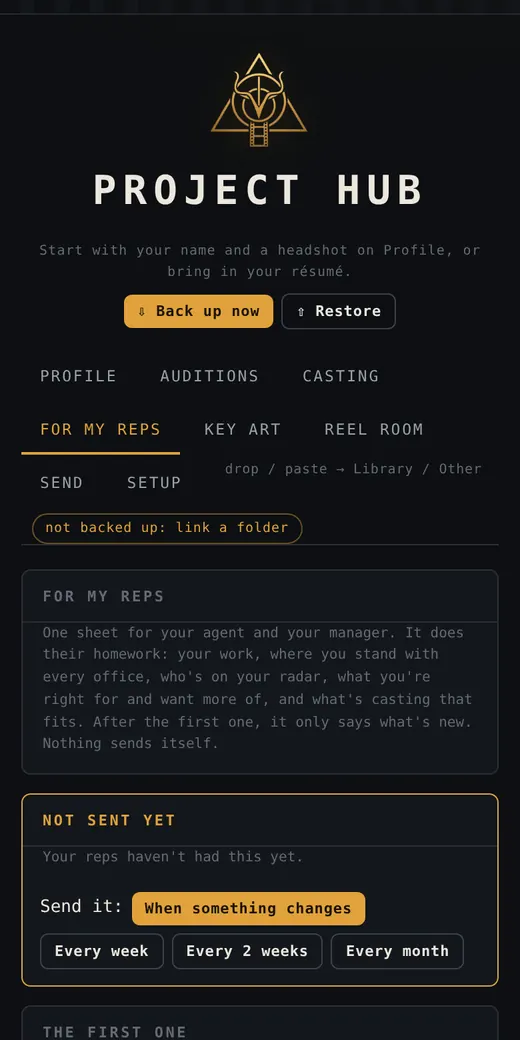
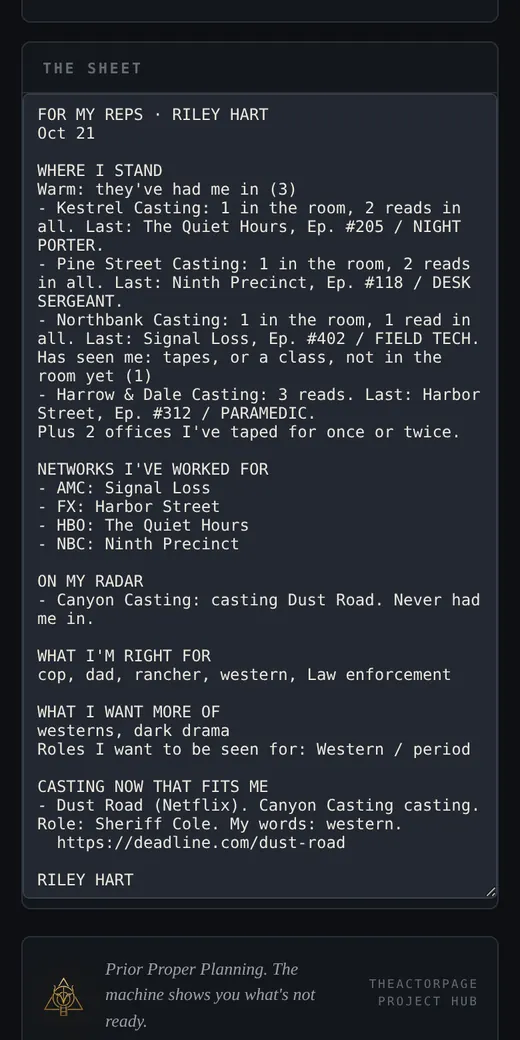
Home: the six steps say more, and FOR YOUR REPS gets its own section
GET IT: you got an audition, time to go to work. LEARN IT and RUN IT: your way, with the
tools to try. TAPE IT: one studio, every step. SEND IT: every step it handles (name,
compression, size limit, trim, one file or several, where it goes, on the record).
RADAR points to a new FOR YOUR REPS section: what's on the sheet, the rules, one button.
Fresh screens for TAPE, SEND and the reps sheet (made-up data only).

Claude-Session: https://claude.ai/code/session_019GNcFunTftEHwwSZoCErGV

diff --git a/index.html b/index.html
@@ -505,6 +505,23 @@ body.stopen{overflow:hidden}
 .cost th{text-align:left;padding:12px 18px;font-weight:500;color:#9aa1ab;border-bottom:1px solid var(--rule)}.cost th:last-child{color:var(--tungsten)}
 .cost td{padding:12px 18px;border-bottom:1px solid #1f2328}.cost tr:last-child td{border-bottom:0}.cost td:nth-child(2){color:#c3c8d0}
 .trysec{text-align:center}.trysec p{color:#c3c8d0;max-width:30em;margin:0 auto 22px;font-size:1.06rem}
+
+.sec-lede{font-size:1.08rem;line-height:1.55;color:#c3c8d0;max-width:36em;margin:-12px 0 24px}
+.sp-tools{display:grid;gap:8px;margin:0 0 20px}
+.sp-tools a{display:grid;gap:2px;text-decoration:none;color:var(--ink);border:1px solid var(--rule);border-radius:10px;padding:12px 14px}
+.sp-tools a:hover,.sp-tools a:focus-visible{border-color:var(--tungsten)}
+.sp-tools b{font-weight:500}.sp-tools span{color:#c3c8d0;font-size:.95rem;line-height:1.45}
+.steppanel ul.sp-care{padding:0}.sp-care{list-style:none;padding:0;margin:0 0 20px;display:grid;grid-template-columns:repeat(auto-fit,minmax(200px,1fr));gap:8px}
+.sp-care li{border:1px solid var(--rule);border-radius:10px;padding:11px 13px;display:grid;gap:2px}
+.sp-care b{font-weight:500}.sp-care b:before{content:'\2713  ';color:var(--tungsten)}.sp-care span{color:#c3c8d0;font-size:.93rem;line-height:1.4}
+.band.reps{background:#111317}
+.repswrap{display:flex;flex-wrap:wrap;gap:40px;align-items:flex-start}
+.reps-text{flex:1 1 440px;min-width:0}
+.reps-list{list-style:none;padding:0;margin:0 0 20px;display:grid;grid-template-columns:repeat(auto-fit,minmax(230px,1fr));gap:10px}
+.reps-list li{border:1px solid var(--rule);border-radius:12px;padding:14px 16px;display:grid;gap:3px;background:var(--stock)}
+.reps-list b{font:700 .74rem var(--script);letter-spacing:.18em;color:var(--tungsten)}.reps-list span{color:#c3c8d0;line-height:1.45}
+.reps-rules{color:#9aa1ab;font-size:.95rem;line-height:1.55;max-width:38em;margin:0 0 22px}
+.reps-go{justify-content:flex-start}
 footer .viewrow{margin:18px 0 4px;padding:0}
 </style>
 </head>
@@ -536,14 +553,15 @@ footer .viewrow{margin:18px 0 4px;padding:0}
 <section class="band how" id="how">
   <div class="wrap">
     <p class="kick">HOW AN AUDITION GOES HERE</p>
-    <h2 class="sec-h">Six steps. One place. Tap a step.</h2>
+    <h2 class="sec-h">You got the audition. Here’s every step after that.</h2>
+    <p class="sec-lede">Six steps, one place. Tap a step to see how it goes.</p>
     <div class="steptabs" role="tablist" aria-label="Audition steps"><button type="button" role="tab" class="steptab" id="st-get" aria-controls="sp-get" aria-selected="true" data-step="get"><i>1</i>GET IT</button><button type="button" role="tab" class="steptab" id="st-learn" aria-controls="sp-learn" aria-selected="false" data-step="learn"><i>2</i>LEARN IT</button><button type="button" role="tab" class="steptab" id="st-run" aria-controls="sp-run" aria-selected="false" data-step="run"><i>3</i>RUN IT</button><button type="button" role="tab" class="steptab" id="st-tape" aria-controls="sp-tape" aria-selected="false" data-step="tape"><i>4</i>TAPE IT</button><button type="button" role="tab" class="steptab" id="st-send" aria-controls="sp-send" aria-selected="false" data-step="send"><i>5</i>SEND IT</button><button type="button" role="tab" class="steptab" id="st-radar" aria-controls="sp-radar" aria-selected="false" data-step="radar"><i>6</i>STAY ON THEIR RADAR</button></div>
     <div class="steppanel" role="tabpanel" id="sp-get" aria-labelledby="st-get">
       <div class="sp-text">
         <p class="sp-n">STEP 1 OF 6</p>
-        <h3>Put in the sides. It finds your part.</h3>
-        <p class="sp-body">Drop in the sides, the self-tape request or your rep’s email. It reads who’s in the scene, which part is yours, and when the tape is due.</p>
-        <ul><li>Your lines lit, and the cue before each one</li><li>The due date read from the request, in your time zone</li><li>Every tool opens on your part from then on</li></ul>
+        <h3>You got an audition. Time to go to work.</h3>
+        <p class="sp-body">The email lands with the sides. Put it in here: the sides, the self-tape request, or your rep’s email. It finds your part, reads who’s casting and when the tape is due, and every tool opens on your part from then on.</p>
+        <ul><li>Your lines lit, and the cue before each one</li><li>The due date in your time zone and theirs</li><li>Their directions turned into a checklist</li></ul>
         <div class="sp-tool"><span>THE TOOL</span><b>Add your material, on this page</b><a class="btn" href="#you">ADD YOUR MATERIAL</a></div>
       </div>
       <div class="sp-shot"><img src="img/steps/get.webp" alt="A script read in: the characters found, your part picked" width="260" height="520" loading="lazy"></div>
@@ -551,39 +569,39 @@ footer .viewrow{margin:18px 0 4px;padding:0}
     <div class="steppanel" role="tabpanel" id="sp-learn" aria-labelledby="st-learn" hidden>
       <div class="sp-text">
         <p class="sp-n">STEP 2 OF 6</p>
-        <h3>Get off book.</h3>
-        <p class="sp-body">Say your lines out loud. It listens, and the lines you drop come back first, so you aren’t drilling the ones you already know.</p>
-        <ul><li>Whole line, first words or first letters</li><li>Checks your words in the language you speak</li><li>Breakdown lays out the role scene by scene</li></ul>
-        <div class="sp-tool"><span>THE TOOL</span><b>Memorizer, and Breakdown</b><a class="btn" href="memorizer/">OPEN MEMORIZER</a></div>
+        <h3>Learn it your way.</h3>
+        <p class="sp-body">Everybody learns lines differently. Pick the way that works for you, or mix them.</p>
+        <div class="sp-tools"><a href="memorizer/"><b>Memorizer</b><span>Say it out loud. The lines you drop come back first.</span></a><a href="breakdown/"><b>Breakdown</b><span>The role scene by scene: what you say, to whom, every question put to you.</span></a><a href="actor-os/"><b>First-letter sheet</b><span>The first letter of every word, to print or keep on your phone.</span></a><a href="cps/"><b>Character Bank</b><span>Keep a character’s voice, so the callback three weeks later sounds like you did.</span></a></div>
+        <div class="sp-tool"><span>THE TOOL</span><b>Memorizer, Breakdown, Character Bank</b><a class="btn" href="memorizer/">OPEN MEMORIZER</a></div>
       </div>
       <div class="sp-shot"><img src="img/steps/learn.webp" alt="Memorizer: say your line, first letters shown as a hint" width="260" height="520" loading="lazy"></div>
     </div>
     <div class="steppanel" role="tabpanel" id="sp-run" aria-labelledby="st-run" hidden>
       <div class="sp-text">
         <p class="sp-n">STEP 3 OF 6</p>
-        <h3>A reader who waits for you.</h3>
-        <p class="sp-body">Read the other parts once yourself, or send a friend a link and they read in on their own time. It plays them back and waits for you to finish your line.</p>
-        <ul><li>Your voice or a friend’s, never a computer voice</li><li>Loop the scene with the screen locked, earbuds in</li><li>A silence for each of your lines, the length of the line</li></ul>
-        <div class="sp-tool"><span>THE TOOL</span><b>Reader booth and Pocket run, in the self-tape studio</b><a class="btn" href="actor-os/">OPEN THE SELF-TAPE STUDIO</a></div>
+        <h3>Run it your way: on your own, or with some help.</h3>
+        <p class="sp-body">Nobody to read with at nine at night? Read the other parts once yourself and it plays them back, waiting for you to finish your line. Or send a friend a link and they read in on their own time. No call, no set time.</p>
+        <div class="sp-tools"><a href="actor-os/"><b>On your own</b><span>Read the scene once. Your reader is ready.</span></a><a href="actor-os/"><b>With a friend</b><span>They record the other parts on their phone and send you one file back.</span></a><a href="actor-os/"><b>Pocket run</b><span>The scene on a loop with the screen locked, earbuds in. A silence for each of your lines.</span></a></div><ul><li>Always a real voice, yours or a friend’s. Never a computer.</li></ul>
+        <div class="sp-tool"><span>THE TOOL</span><b>Reader booth, in the self-tape studio</b><a class="btn" href="actor-os/">OPEN THE SELF-TAPE STUDIO</a></div>
       </div>
       <div class="sp-shot"><img src="img/steps/run.webp" alt="Pocket run: the scene on a loop, the line you are on" width="260" height="520" loading="lazy"></div>
     </div>
     <div class="steppanel" role="tabpanel" id="sp-tape" aria-labelledby="st-tape" hidden>
       <div class="sp-text">
         <p class="sp-n">STEP 4 OF 6</p>
-        <h3>Shoot on the phone you have.</h3>
-        <p class="sp-body">It asks before the camera turns on and always shows you when it’s on. After a take it tells you what it heard: a line you went quiet on, a spot where the sound clipped.</p>
-        <ul><li>Framing the office asked for</li><li>Your slate, made for you</li><li>Not a grade. Just what casting will hear</li></ul>
+        <h3>One studio, every step, every time.</h3>
+        <p class="sp-body">The self-tape studio is built in, so every tape comes out the same way: framed, slated and clean. No juggling four apps to get one tape.</p>
+        <ul><li>Framed the way the office asked: landscape or portrait, how close</li><li>Your slate, made for you, in the order they asked</li><li>Your reader plays by the lens, from the right line</li><li>After each take, what it heard: a line you went quiet on, a spot where the sound clipped. Not a grade</li><li>It asks before the camera turns on, and always shows you when it’s on</li></ul>
         <div class="sp-tool"><span>THE TOOL</span><b>Self-tape studio (Actor OS)</b><a class="btn" href="actor-os/">OPEN THE SELF-TAPE STUDIO</a></div>
       </div>
-      <div class="sp-shot"><img src="img/steps/tape.webp" alt="The self-tape studio, ready to turn on the camera" width="260" height="520" loading="lazy"></div>
+      <div class="sp-shot"><img src="img/steps/tape.webp" alt="The self-tape studio, ready to turn on the camera" width="260" height="473" loading="lazy"></div>
     </div>
     <div class="steppanel" role="tabpanel" id="sp-send" aria-labelledby="st-send" hidden>
       <div class="sp-text">
         <p class="sp-n">STEP 5 OF 6</p>
-        <h3>Sized, named and ready.</h3>
-        <p class="sp-body">Paste the office’s instructions. It trims the take, sizes it and names the file the way they asked. You send it.</p>
-        <ul><li>No editing app, no compression app</li><li>The file named the way casting expects</li><li>Kept takes go to your hub, ready for next time</li></ul>
+        <h3>Sized, named and ready to go.</h3>
+        <p class="sp-body">This is where good tapes get lost. Paste the office’s instructions and it handles every step they asked for:</p>
+        <ul class="sp-care"><li><b>File name</b><span>Named the way the office asked. NAME_Role_Tk1, or whatever they want.</span></li><li><b>Compression</b><span>Casting quality, small enough to upload. No compression app.</span></li><li><b>Size limit</b><span>Lands under the cap. Actors Access asks for under 500 MB.</span></li><li><b>Trim</b><span>The dead air off the top and the tail.</span></li><li><b>One file or several</b><span>Scenes together or apart, slate first, the way they asked.</span></li><li><b>Where it’s going</b><span>Actors Access, your agent or manager, or a link.</span></li><li><b>On the record</b><span>The tape is kept with that audition in your hub.</span></li></ul><ul><li>Nothing uploads by itself. You pick the file and send it.</li></ul>
         <div class="sp-tool"><span>THE TOOL</span><b>Self-tape studio (Actor OS)</b><a class="btn" href="actor-os/">OPEN THE SELF-TAPE STUDIO</a></div>
       </div>
       <div class="sp-shot"><img src="img/steps/send.webp" alt="Send: paste the office instructions and it sets the file up" width="260" height="520" loading="lazy"></div>
@@ -591,13 +609,36 @@ footer .viewrow{margin:18px 0 4px;padding:0}
     <div class="steppanel" role="tabpanel" id="sp-radar" aria-labelledby="st-radar" hidden>
       <div class="sp-text">
         <p class="sp-n">STEP 6 OF 6</p>
-        <h3>Keep the people who matter in the loop.</h3>
-        <p class="sp-body">Every audition and every casting office, and what they told you, in one place. One sheet for your agent and manager, and after the first one, only what’s new.</p>
-        <ul><li>Who has had you in, and when</li><li>Projects that fit you, from the trades</li><li>A sheet for your reps, in your words</li></ul>
-        <div class="sp-tool"><span>THE TOOL</span><b>Project Hub, and Spotted</b><a class="btn" href="hub/?tab=reps">OPEN FOR MY REPS</a></div>
+        <h3>Stay on casting’s radar.</h3>
+        <p class="sp-body">Booking is a long game. Every audition, every office, what they told you and when you were last in the room, all in one place, so nobody who liked you forgets you.</p>
+        <ul><li>Every office: who has had you in, how often, the last read</li><li>Projects casting now that fit you, from the trades</li><li>Notes from class and sessions, kept with the people in them</li><li>For your reps: one sheet that does their homework. More below</li></ul>
+        <div class="sp-tool"><span>THE TOOL</span><b>Project Hub, and Spotted</b><a class="btn" href="#reps">SEE FOR YOUR REPS</a></div>
       </div>
       <div class="sp-shot"><img src="img/steps/radar.webp" alt="For my reps: one sheet for your agent and manager" width="260" height="520" loading="lazy"></div>
     </div>
+  </div>
+</section>
+
+<hr class="hair">
+
+<section class="band reps" id="reps">
+  <div class="wrap repswrap">
+    <div class="reps-text">
+      <p class="kick">FOR YOUR REPS</p>
+      <h2 class="sec-h">Make it easy for your reps to pitch you.</h2>
+      <p class="sec-lede">Agents and managers juggle a lot of clients. Hand them one sheet with the homework already done: who you are, where you stand with every office, and what's casting right now that fits you.</p>
+      <ul class="reps-list">
+        <li><b>My work</b><span>Your page, your reel, your credits.</span></li>
+        <li><b>Where I stand</b><span>Every casting office, grouped by how well they know you, with the last read.</span></li>
+        <li><b>Who should know me</b><span>Offices casting now that have never had you in.</span></li>
+        <li><b>Right for</b><span>Your types, and what you want more of.</span></li>
+        <li><b>Casting that fits</b><span>Projects from the trades with your words in them, with links.</span></li>
+        <li><b>What's new</b><span>After the first sheet, only what changed.</span></li>
+      </ul>
+      <p class="reps-rules">In your words, with counts, never scores. Other people's numbers and emails never go on it, and offices you marked Do not contact never appear. You pick when it goes out: when something changes, or every week, two weeks or month. Nothing sends itself.</p>
+      <div class="hero-go reps-go"><a class="btn" href="hub/?tab=reps">Build your first sheet</a></div>
+    </div>
+    <div class="sp-shot"><img src="img/steps/radar.webp" alt="FOR MY REPS: one sheet for your agent and your manager" width="260" height="520" loading="lazy"></div>
   </div>
 </section>
 

diff --git a/tests/home_front_e2e.js b/tests/home_front_e2e.js
@@ -15,10 +15,26 @@ want('six steps, in order', tabs.join('|')==='GET IT|LEARN IT|RUN IT|TAPE IT|SEN
 want('one step shows at a time, with a real screen', (await p.$$eval('.steppanel',x=>x.filter(e=>!e.hidden).length))===1&&await p.$eval('#sp-get img',i=>i.complete&&i.naturalWidth>100));
 await p.click('#st-run'); await p.waitForTimeout(200);
 const run=await p.innerText('#sp-run');
-want('tap RUN IT: the reader, never a computer voice, and the tool by what it does', /A reader who waits for you/.test(run)&&/never a computer voice/.test(run)&&/Reader booth and Pocket run/.test(run)&&!(await p.isVisible('#sp-get')));
+want('tap RUN IT: a real voice, never a computer, and the tool by what it does', /Never a computer/.test(run)&&/Reader booth/.test(run)&&!(await p.isVisible('#sp-get')));
 await p.focus('#st-run'); await p.keyboard.press('ArrowRight'); await p.waitForTimeout(150);
 want('arrow keys move between steps', await p.$eval('#st-tape',t=>t.getAttribute('aria-selected')==='true'&&document.activeElement===t));
 const imgs=await p.$$eval('.steppanel img',x=>x.map(i=>i.getAttribute('src')));
+await p.click('#st-get'); await p.waitForTimeout(150);
+want('GET IT: you got an audition, time to go to work', /You got an audition\. Time to go to work\./.test(await p.innerText('#sp-get')));
+await p.click('#st-learn'); await p.waitForTimeout(150);
+want('LEARN IT: your way, with the tools to try, each a link', /Learn it your way/.test(await p.innerText('#sp-learn'))&&(await p.$$('#sp-learn .sp-tools a')).length===4);
+await p.click('#st-run'); await p.waitForTimeout(150);
+want('RUN IT: on your own, or with some help', /on your own, or with some help/.test(await p.innerText('#sp-run'))&&/With a friend/.test(await p.innerText('#sp-run')));
+await p.click('#st-tape'); await p.waitForTimeout(150);
+want('TAPE IT: one studio, every step, every time', /One studio, every step, every time\./.test(await p.innerText('#sp-tape')));
+await p.click('#st-send'); await p.waitForTimeout(150);
+const send=await p.innerText('#sp-send');
+want('SEND IT: every step it takes care of: name, compression, size, trim, one file or several, where it goes, on the record', ['File name','Compression','Size limit','Trim','One file or several','Where it.s going','On the record'].every(w=>new RegExp(w).test(send))&&/under 500 MB/.test(send)&&/Nothing uploads by itself/.test(send), send.slice(0,300));
+await p.click('#st-radar'); await p.waitForTimeout(150);
+want('RADAR: stay on casting\'s radar, pointing to FOR YOUR REPS', /Stay on casting.s radar\./.test(await p.innerText('#sp-radar'))&&(await p.getAttribute('#sp-radar .sp-tool a','href'))==='#reps');
+const reps=await p.innerText('#reps');
+want('FOR YOUR REPS: its own section, what\'s on the sheet, the rules, one button', /Make it easy for your reps to pitch you\./.test(reps)&&['My work','Where I stand','Who should know me','Right for','Casting that fits','What.s new'].every(w=>new RegExp(w,'i').test(reps))&&/Nothing sends itself/.test(reps)&&(await p.getAttribute('#reps .btn','href'))==='hub/?tab=reps', reps.slice(0,300));
+want('FOR YOUR REPS sits right after the steps', await p.evaluate(()=>{ const h=document.getElementById('how'); let n=h.nextElementSibling; while(n&&n.tagName!=='SECTION') n=n.nextElementSibling; return n&&n.id==='reps'; }));
 want('every step has its screen', imgs.length===6&&imgs.every(s=>/^img\/steps\/\w+\.webp$/.test(s)));
 const why=await p.innerText('#why');
 want('why it\'s different: free, a real reader, stays yours, no signal; and what it costs elsewhere', /Free, with no limit/.test(why)&&/A real reader/.test(why)&&/It stays yours/.test(why)&&/Works with no signal/.test(why)&&/\$5 to \$15 a month/.test(why));

diff --git a/sw.js b/sw.js
@@ -1,6 +1,6 @@
 /* THEACTORPAGE home, offline. Only the home page and what it loads; each tool has its own.
    Bump CACHE on every release. Only clears its own old copies. */
-const CACHE='home-0.6.50';
+const CACHE='home-0.6.51';
 const FILES=['img/steps/get.webp','img/steps/learn.webp','img/steps/run.webp','img/steps/tape.webp','img/steps/send.webp','img/steps/radar.webp','shared/tour.js','shared/madeby.js','shared/repsheet.js','demo/','demo/index.html','demo/stops.js','demo/player.js','demo/low_tide.fountain','shared/view.js','./','index.html','fonts/jost-latin-300-normal.woff2','fonts/jost-latin-400-normal.woff2','fonts/jost-latin-500-normal.woff2','fonts/jost-latin-600-normal.woff2','fonts/courier-prime-latin-400-normal.woff2','fonts/courier-prime-latin-700-normal.woff2','privacy/','shared/hot.js','shared/shelf.js','shared/scenes.js','shared/inbox.js','shared/you.js','shared/offices.js','shared/notes.js','shared/intake.js','shared/home.js','shared/rooms.js','shared/spark.js','shared/yourscenes.js','shared/practice.js','shared/capture.js','shared/takes.js','shared/studio.js',
  'actor-os/sides.js','actor-os/pdf.js','hub/request.js','img/sigil-apex.webp','img/sigil-left.webp','img/sigil-right.webp','img/sigil-head.webp','img/sigil-strip.webp','img/sigil-glow.webp','img/sigil-film-64.png','shared/sigil.js'];
 const OWN=new Set(FILES.map(f=>new URL(f,self.registration.scope).href));
